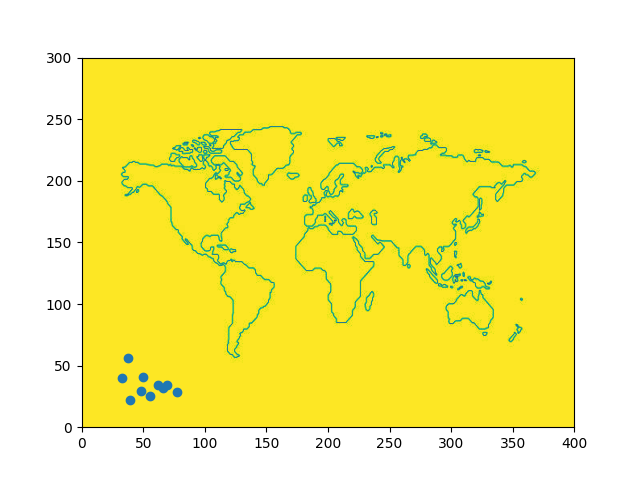
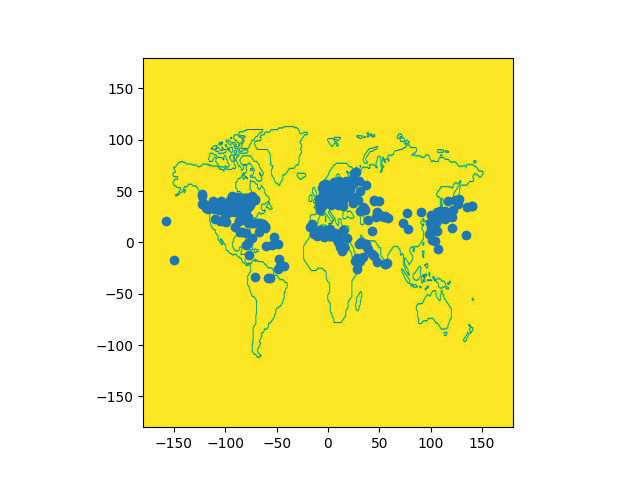
image va bien

Changed region(s): [[0.0625, 0.0938, 0.9375, 0.9375], [0.5625, 0.9062, 0.625, 0.9375], [0.5, 0.9062, 0.5312, 0.9375]]

diff --git a/Controlleur_Arno.py b/Controlleur_Arno.py
@@ -11,8 +11,8 @@ import bignono, requete
 class Controller():
     def __init__(self) -> None:
         self.DB_NAME = "sae_bdd"
-        self.DB_USER = "crpsim"
-        self.DB_PASS = "simoncrp"
+        self.DB_USER = "wissocq"
+        self.DB_PASS = "arnaudwq"
         self.DB_HOST = "127.0.0.1"
         self.DB_PORT = "5432"
 
@@ -76,7 +76,7 @@ class Controller():
 
         img = plt.imread("mapmonde.jpg")
         fig, ax = plt.subplots()
-        ax.imshow(img, extent=[0, 400, 0, 300])
+        ax.imshow(img, extent=[-180, 180, -180, 180])
         ax.scatter(points_x, points_y)
         plt.savefig(fname="graphique")
         self.vue.interf_1.graphique.updateGraphique("graphique.png")
@@ -85,8 +85,6 @@ class Controller():
         # fig.canvas.draw()
         # temp_canvas = fig.canvas
         # plt.close()
-
-        plt.show()
         
     def next(self) -> None:
         self.modele.next()

diff --git a/TestSecondeInterface.py b/TestSecondeInterface.py
@@ -256,7 +256,7 @@ class Graphique(QWidget):
     def updateGraphique(self, image_path):
 
         pixmap = QPixmap(image_path)
-        pixmap = pixmap.scaled(350,300)
+        pixmap = pixmap.scaled(800,750)
         self.histoire_comp_label.setPixmap(pixmap)
         
 
